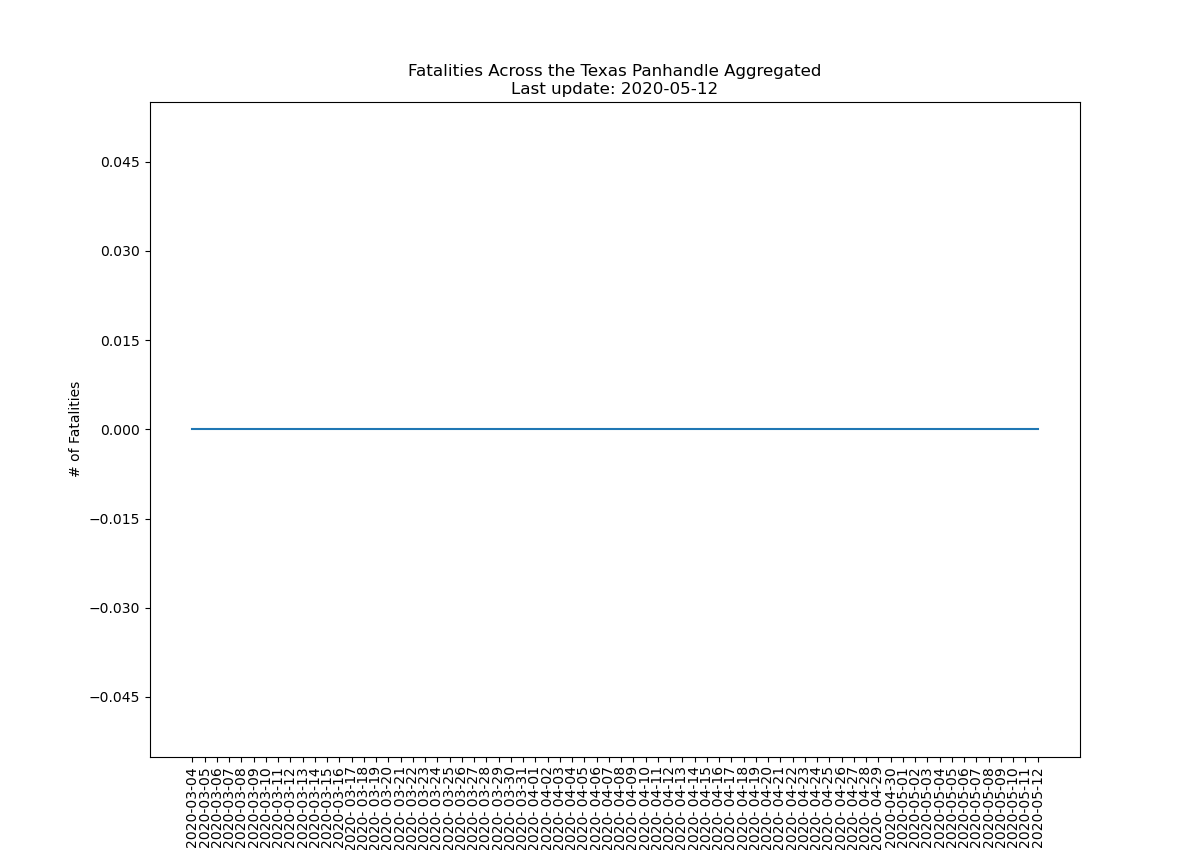
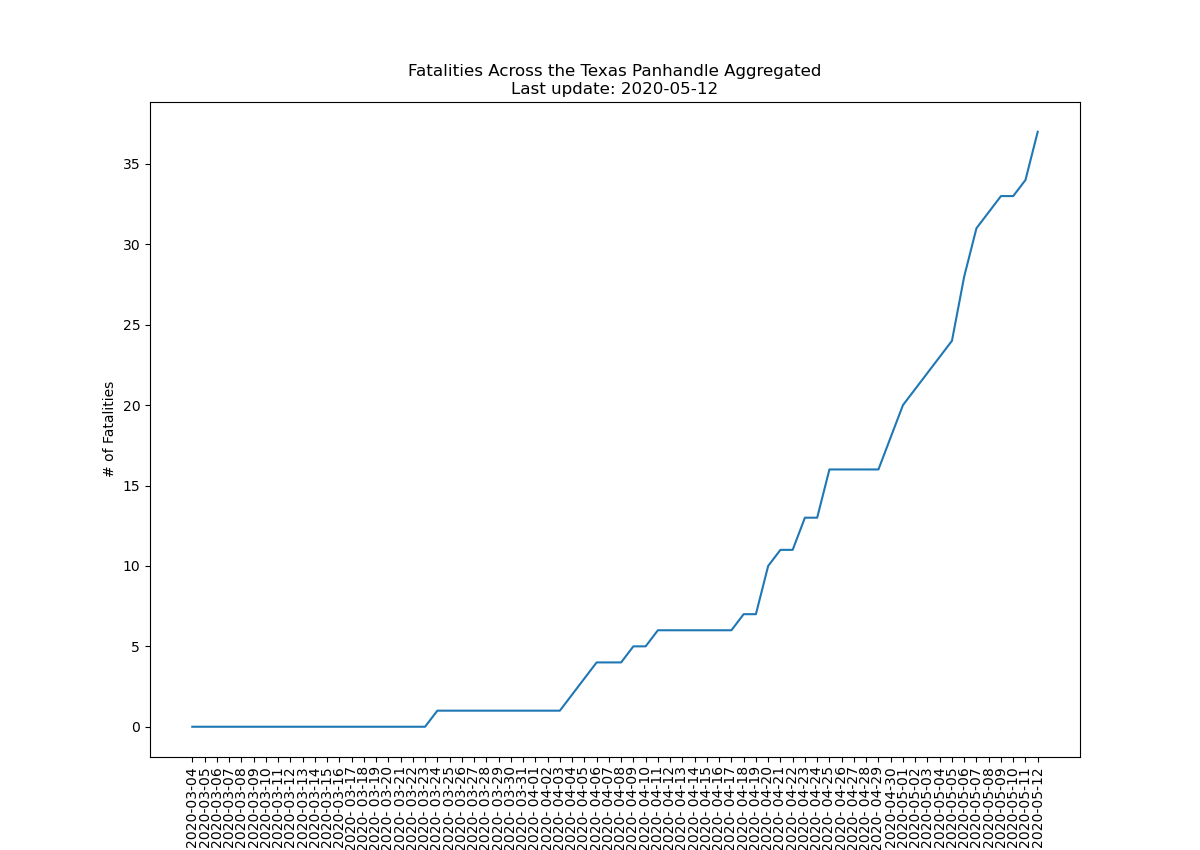
Fixed Fatalities graph.

diff --git a/src_dshs/graph.py b/src_dshs/graph.py
@@ -181,7 +181,7 @@ def main():
 	for county in variables.counties:
 		active_df[agg] += active_df[county]
 		case_df[agg] += case_df[county]
-		fatality_df[agg] += fatality_df[agg]
+		fatality_df[agg] += fatality_df[county]
 
 	df_list = [
 		Data(active_df,"Active Cases Aggregated","Day","# of Active Cases","Active Cases Across the Texas Panhandle Aggregated\nLast updated: " + active_df.index[-1]), 
@@ -204,10 +204,10 @@ def main():
 		plt.savefig("graphs/" + df.figure.replace(' ', '') + ".png")
 		plt.savefig("png/" + df.figure.replace(' ', '') + ".png")
 
-
 	# TODO(David): Graph rate of inc/dec of cases per day
 	# TODO(David): Make graph of panhandle with circles correlated to cases, fatalities, etc.
 	# TODO(David): Forecasting/Trend Analysis?
+	# TODO(David): Graph recovered cases
 
 
 if __name__ == '__main__':

diff --git a/README.md b/README.md
@@ -29,7 +29,7 @@ You should find all the save images in the `graphs` directory when the program i
 
 ![Active Aggregate](png/ActiveCasesAggregated.png)
 ![Cases Aggregate](png/CasesAggregated.png)
-<!-- ![Fatalities Aggregate](png/FatalitiesAggregated.png) -->
+![Fatalities Aggregate](png/FatalitiesAggregated.png)
 ![Actives](png/ActiveCases.png)
 ![Cases](png/Cases.png)
 ![Fatalities](png/Fatalities.png)
